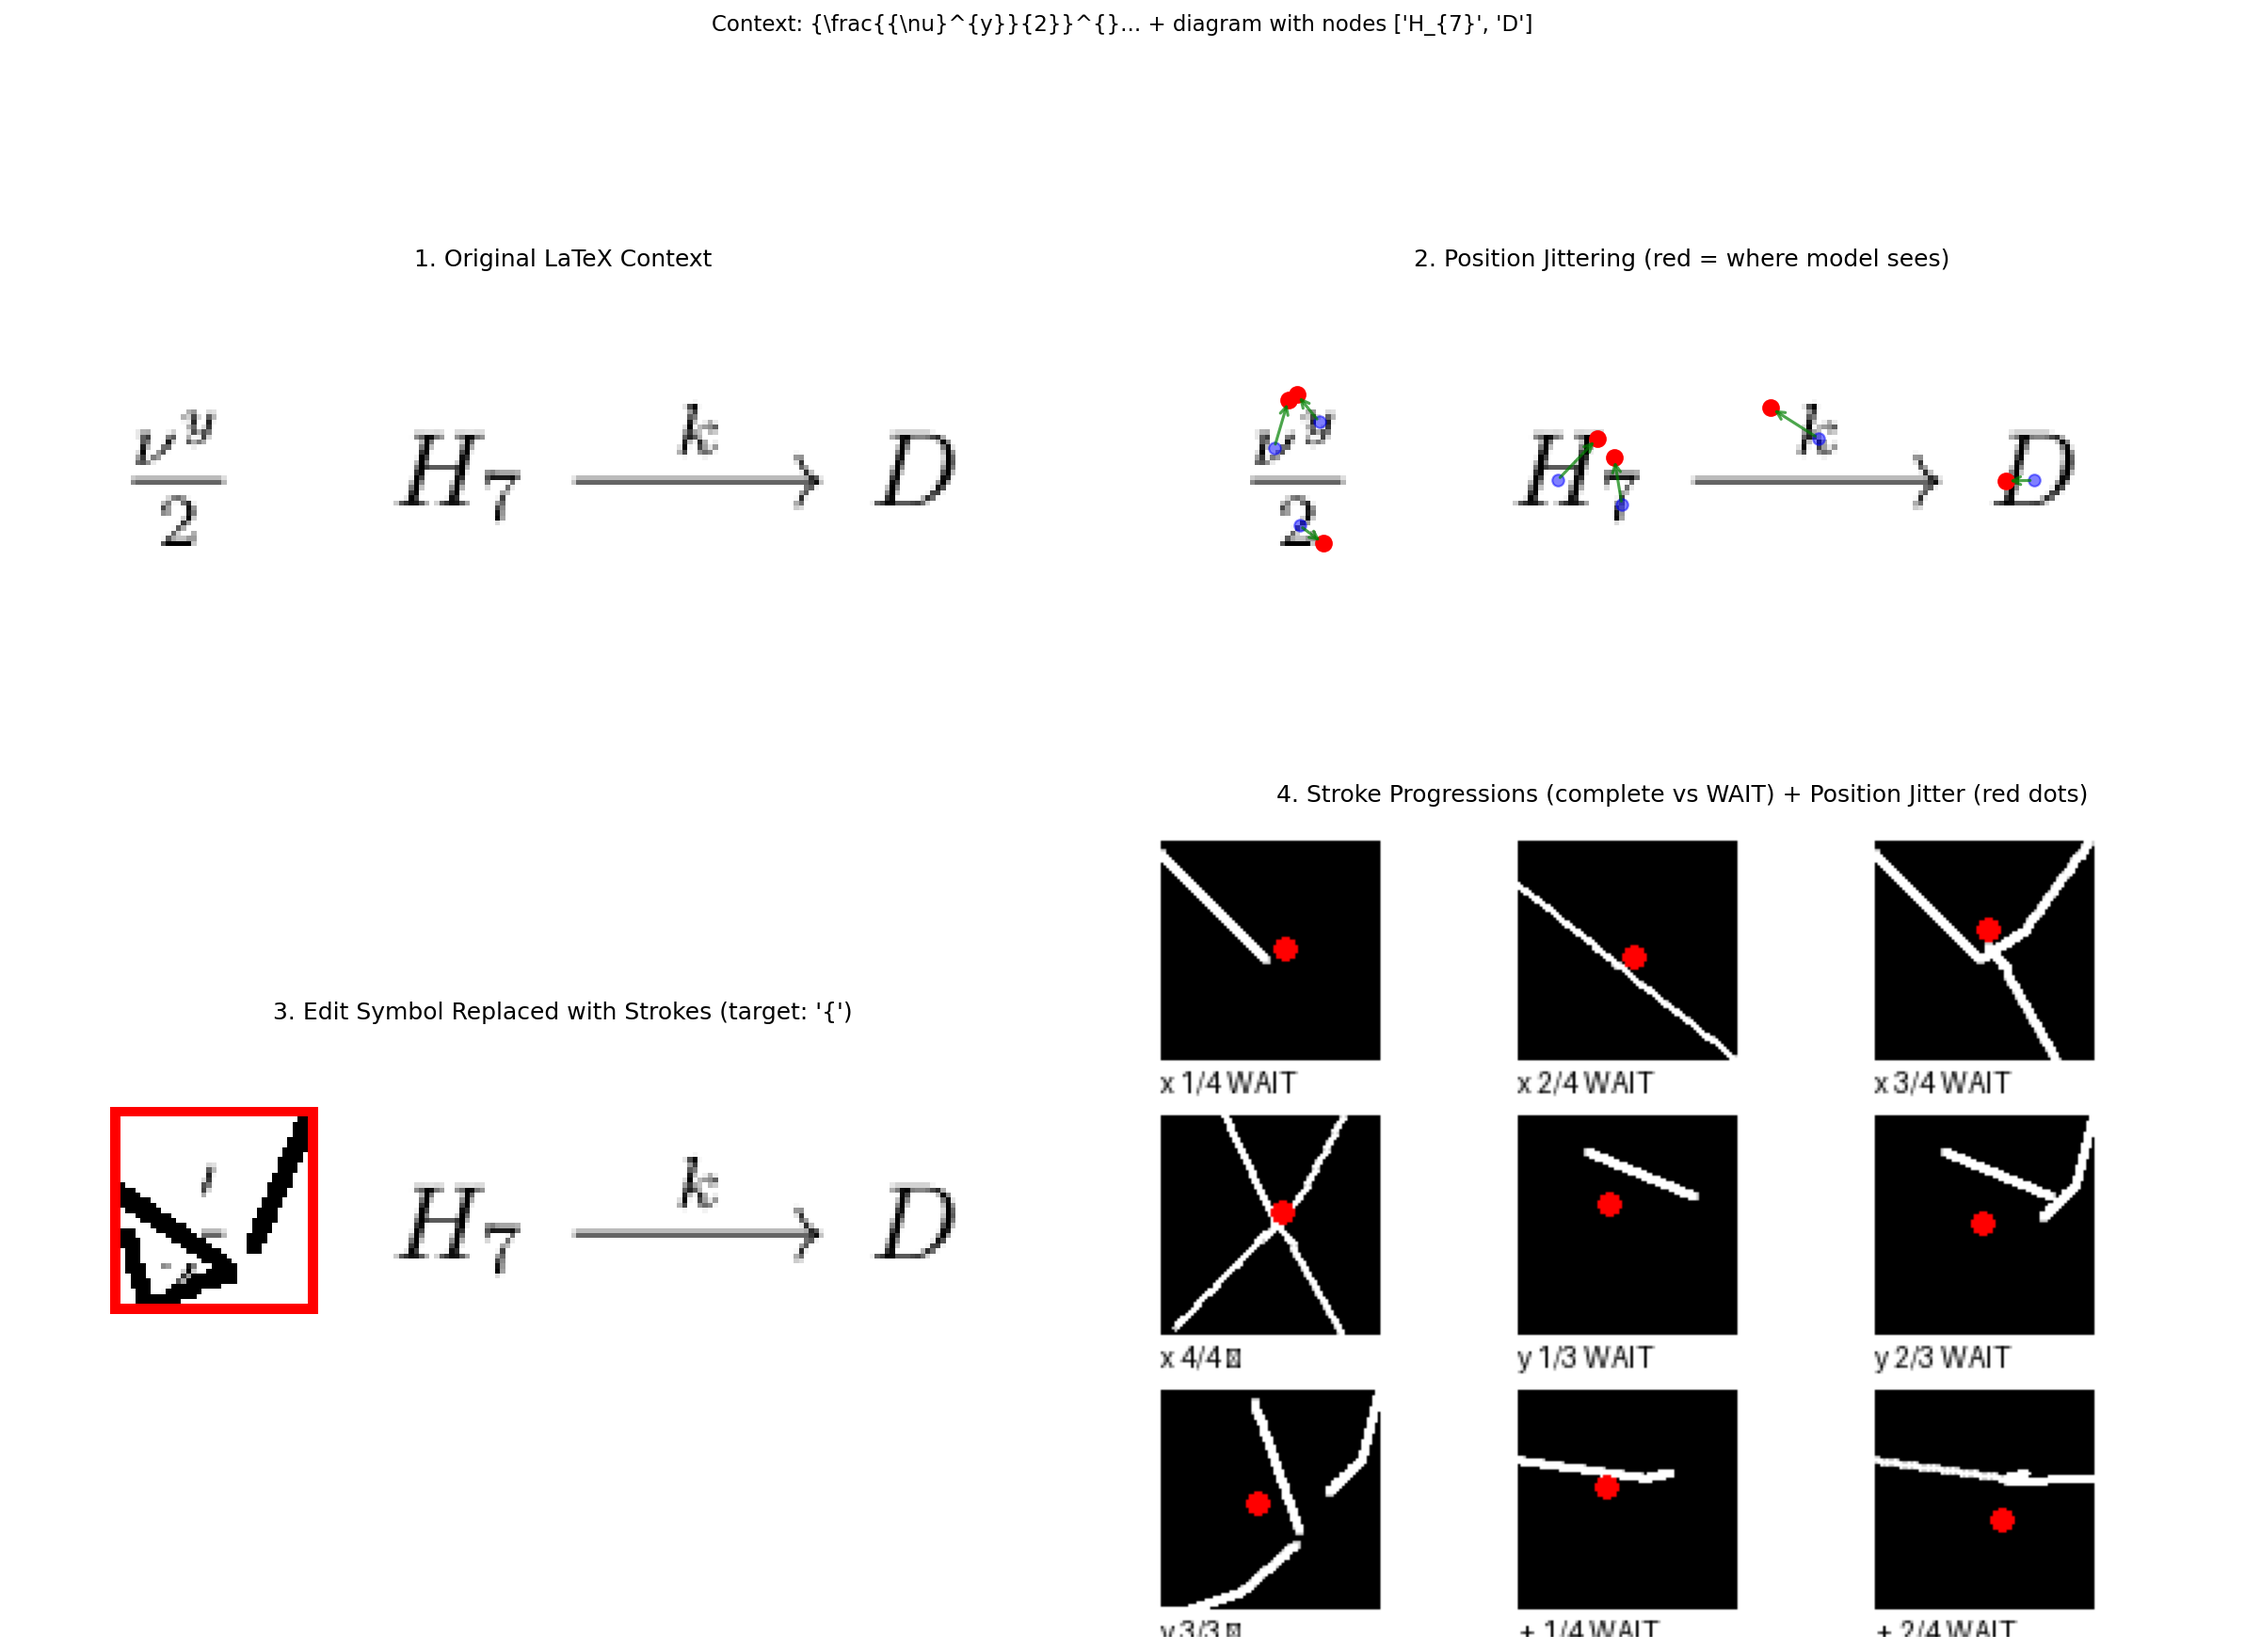
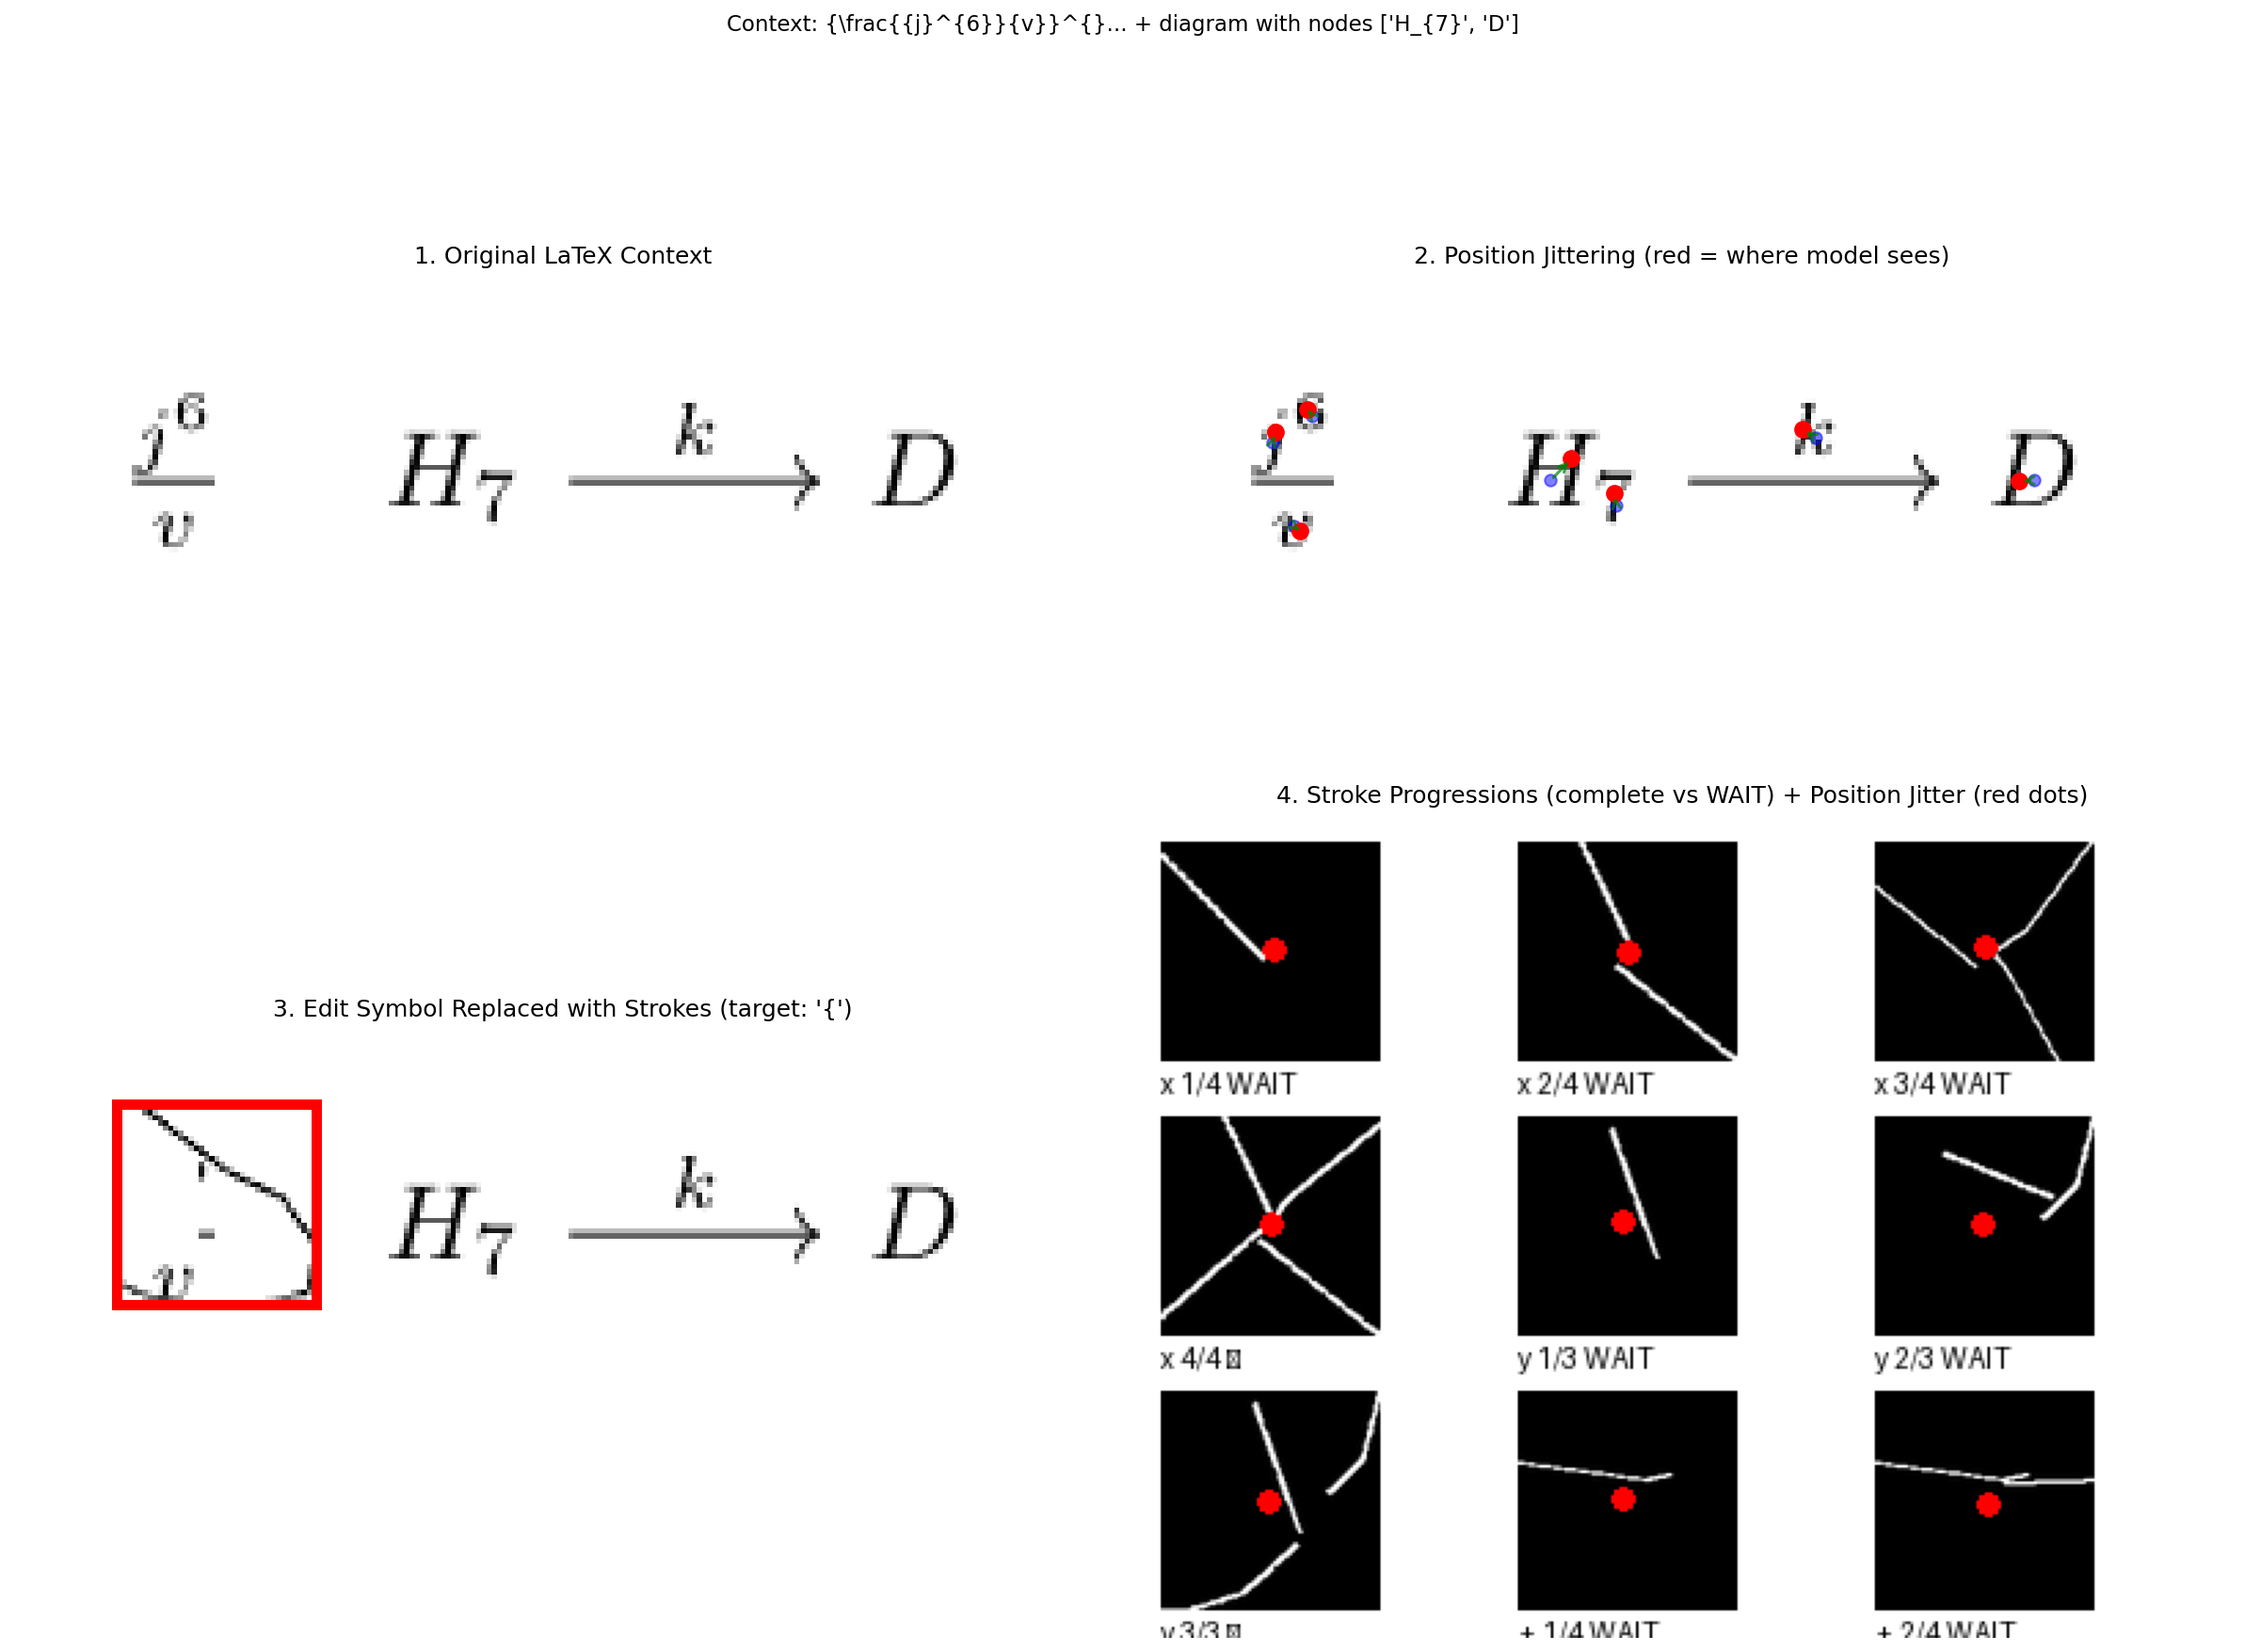
fix: reduce position jitter to ~1.5-2%, use proper StrokeRenderer for smoother strokes

diff --git a/context_tracker/data/demos/visualize_context_demo.py b/context_tracker/data/demos/visualize_context_demo.py
@@ -120,7 +120,11 @@ def render_strokes_to_array(
     size: tuple = (64, 64),
     num_strokes: int = None,  # None = complete
 ) -> np.ndarray:
-    """Render strokes to numpy array."""
+    """
+    Render strokes to numpy array using the proper StrokeRenderer.
+    
+    Uses anti-aliased PIL rendering for smooth strokes like in all_symbols_grid.png
+    """
     sym_data = loader.get_symbol(symbol)
     if sym_data is None:
         # Fallback: render a simple mark
@@ -132,7 +136,9 @@ def render_strokes_to_array(
                     arr[cy+dy, cx+dx] = 200
         return arr
     
-    renderer = StrokeRenderer(loader, canvas_size=max(size))
+    # Use proper renderer with good canvas size
+    canvas_size = max(size[0], size[1], 128)
+    renderer = StrokeRenderer(loader, canvas_size=canvas_size)
     
     stroke_names = sorted(sym_data.strokes.keys())
     total = len(stroke_names)
@@ -140,46 +146,23 @@ def render_strokes_to_array(
         num_strokes = total
     num_strokes = min(num_strokes, total)
     
-    # Render
-    canvas = np.zeros((max(size), max(size)), dtype=np.float32)
-    thickness = random.uniform(2.5, 4)
-    
-    for i, stroke_name in enumerate(stroke_names[:num_strokes]):
+    # Select random variations for each stroke
+    selected_strokes = []
+    for stroke_name in stroke_names[:num_strokes]:
         variations = sym_data.strokes[stroke_name]
         stroke = random.choice(variations)
-        
-        # Interpolate
-        interpolated = stroke.interpolate(40)
-        points = [(int(p.x * max(size)), int(p.y * max(size))) for p in interpolated.points]
-        
-        # Draw
-        for j in range(len(points) - 1):
-            x0, y0 = points[j]
-            x1, y1 = points[j + 1]
-            _draw_line(canvas, x0, y0, x1, y1, thickness)
+        # Interpolate for smooth curves
+        selected_strokes.append(stroke.interpolate(50))
     
-    # Resize to target
+    # Render using PIL (anti-aliased)
+    thickness = random.uniform(2.5, 3.5)
+    canvas = renderer._render_strokes(selected_strokes, thickness)
+    
+    # Resize to target size
     from PIL import Image as PILImage
     img = PILImage.fromarray((canvas * 255).astype(np.uint8), mode='L')
     img = img.resize(size, PILImage.LANCZOS)
     return np.array(img)
-
-
-def _draw_line(canvas, x0, y0, x1, y1, thickness):
-    h, w = canvas.shape
-    steps = max(abs(x1 - x0), abs(y1 - y0), 1)
-    for i in range(steps + 1):
-        t = i / steps if steps > 0 else 0
-        x = int(x0 + t * (x1 - x0))
-        y = int(y0 + t * (y1 - y0))
-        r = int(thickness / 2)
-        for dy in range(-r, r + 1):
-            for dx in range(-r, r + 1):
-                px, py = x + dx, y + dy
-                if 0 <= px < w and 0 <= py < h:
-                    dist = np.sqrt(dx*dx + dy*dy)
-                    if dist <= thickness / 2:
-                        canvas[py, px] = min(1.0, canvas[py, px] + 0.8)
 
 
 def compose_context_with_diagram(seed: int = 42) -> dict:
@@ -213,9 +196,9 @@ def compose_context_with_diagram(seed: int = 42) -> dict:
     if not edit_target:
         edit_target = "x"  # Fallback
     
-    # Symbol positions with jitter
+    # Symbol positions with jitter (small - within half bbox width)
     positions = []
-    jitter_range = 0.05
+    jitter_range = 0.015  # ~1.5% - stays well within symbol bounds
     
     # Atomic part position
     positions.append({
@@ -297,9 +280,13 @@ def visualize_context_with_strokes(
     img_w, img_h = latex_img.size
     for sym in symbols:
         cx, cy = sym['center']
-        # Add random jitter for visualization
-        jx = random.uniform(-10, 10)
-        jy = random.uniform(-10, 10)
+        # Small jitter (within ~1.5% of image, stays inside symbol)
+        bbox = sym.get('bbox', [cx-10, cy-10, cx+10, cy+10])
+        bbox_w = bbox[2] - bbox[0]
+        bbox_h = bbox[3] - bbox[1]
+        max_jitter = min(bbox_w, bbox_h) * 0.3  # Max 30% of smaller bbox dimension
+        jx = random.uniform(-max_jitter, max_jitter)
+        jy = random.uniform(-max_jitter, max_jitter)
         
         # Original position (blue)
         ax2.plot(cx, cy, 'bo', markersize=6, alpha=0.5)

diff --git a/context_tracker/data/generate_training_data.py b/context_tracker/data/generate_training_data.py
@@ -174,7 +174,7 @@ def generate_commutative_diagrams(
     include_labels: bool = True,
     complexity_range: Tuple[int, int] = (1, 4),
     add_position_jitter: bool = True,
-    jitter_range: float = 0.05,
+    jitter_range: float = 0.015,  # Small: ~1.5% of bbox, stays within symbol
     seed: int = None,
 ) -> List[Dict[str, Any]]:
     """
@@ -466,7 +466,7 @@ def generate_compositional_context(
     separator: str = ", ",  # Natural separator
     seed: int = None,
     add_position_jitter: bool = True,
-    jitter_range: float = 0.05,
+    jitter_range: float = 0.015,  # Small: stays within half bbox width
 ) -> List[Dict[str, Any]]:
     """
     Generate compositional context (metadata only, no full images).
@@ -564,7 +564,7 @@ def generate_stroke_examples(
     add_distractors: bool = True,
     num_distractors: int = 3,
     add_position_jitter: bool = True,
-    jitter_range: float = 0.1,
+    jitter_range: float = 0.02,  # Small: ~2% offset from center
     seed: int = None,
 ) -> List[Dict[str, Any]]:
     """
